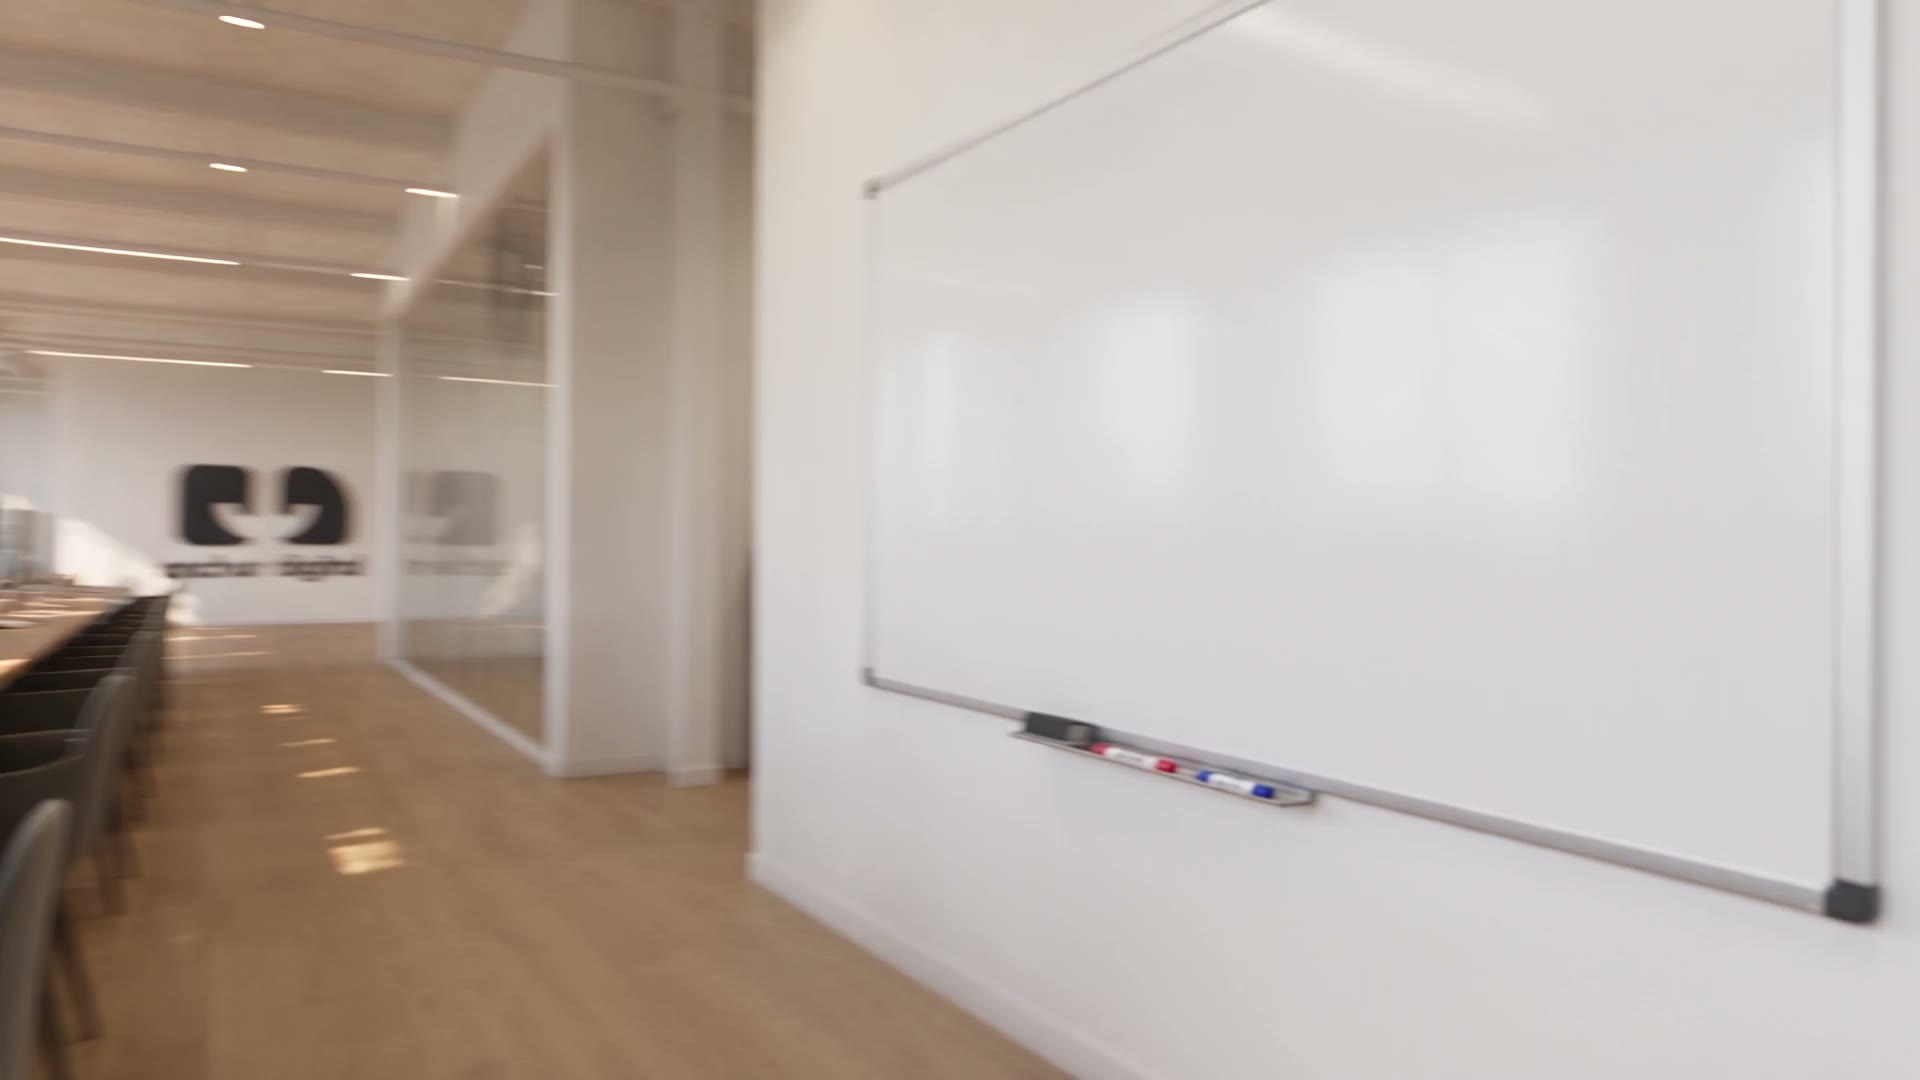
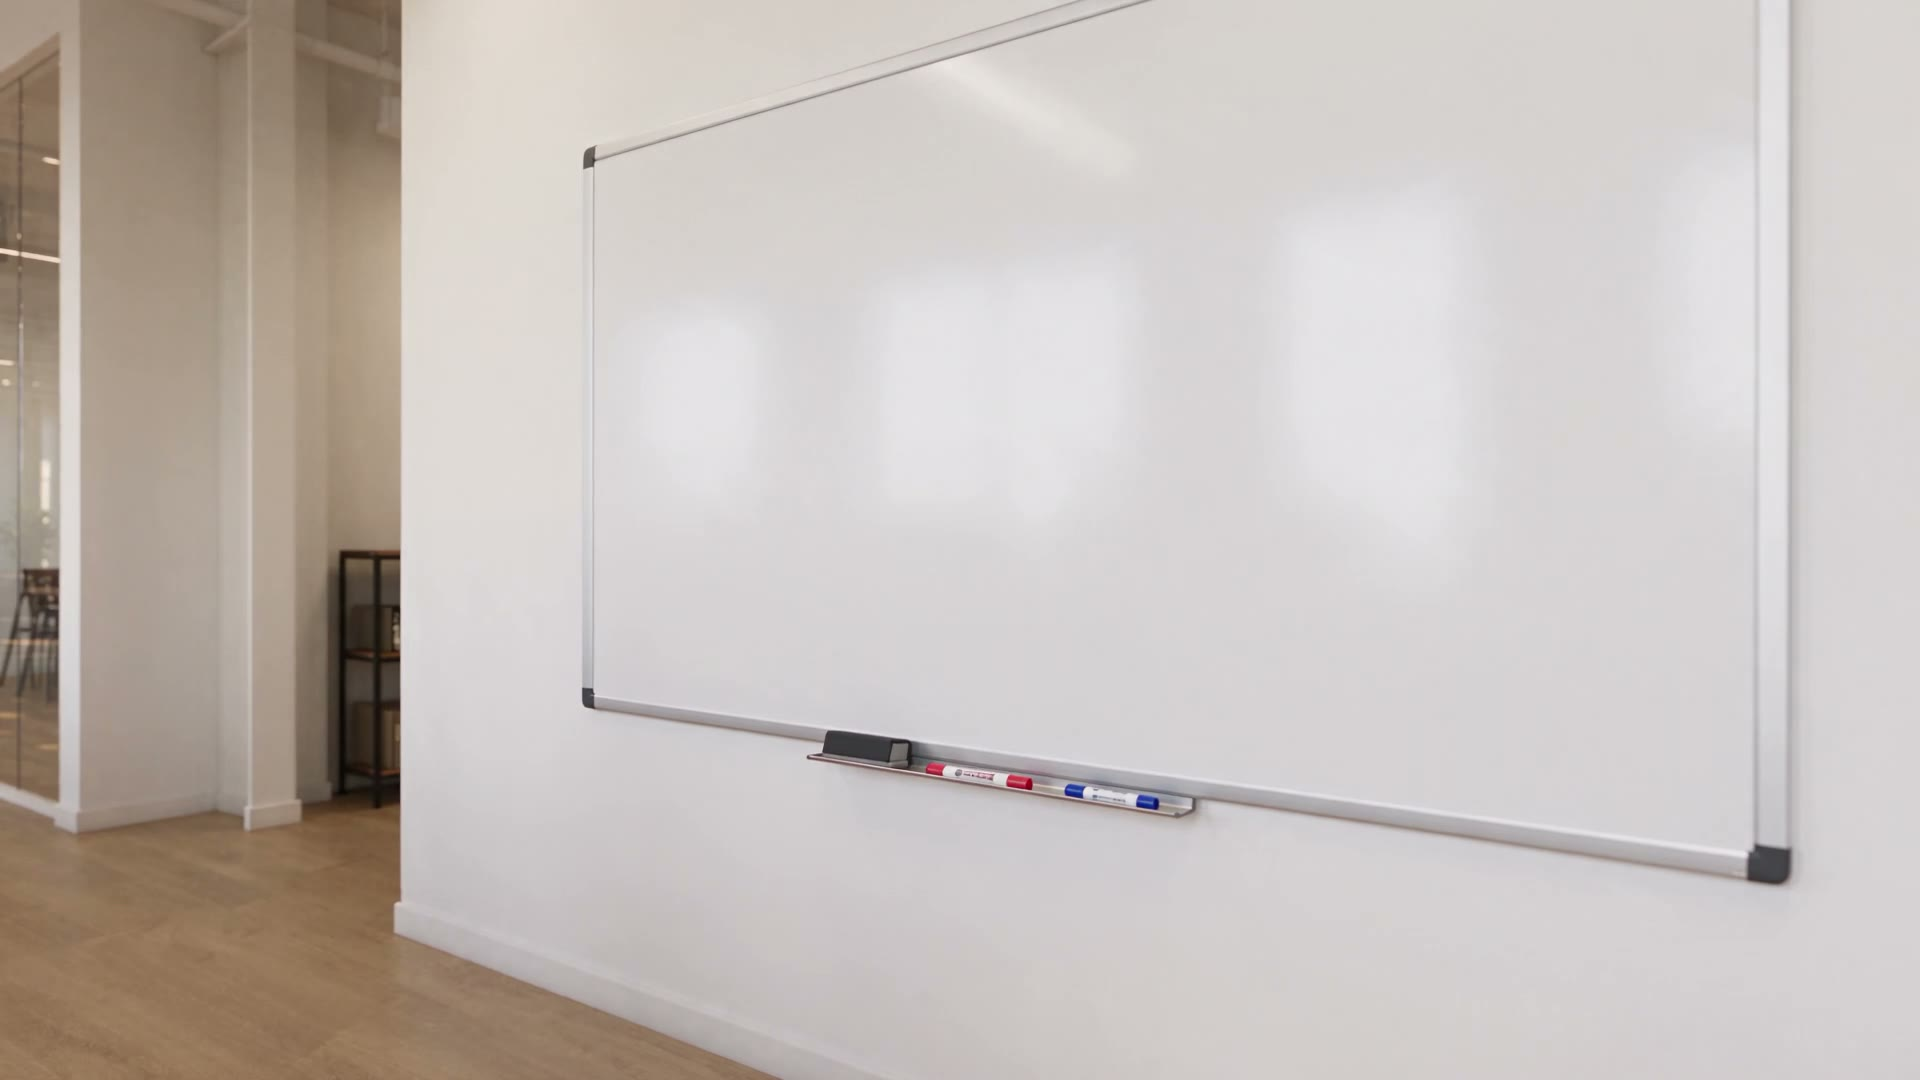
Fix the work waypoint's timestamp with real measurement, not eyeballing
Third report of this same "stops at the wrong time" complaint, so this
time verified it properly instead of guessing again: extracted a frame
every 0.1s from 14.5s to 19.5s and computed frame-to-frame pixel
difference across the whole window.

The data was unambiguous - t=16.5 (the previous pick) sits in the middle
of real camera motion (diff ~138,000), while the true settled whiteboard
hold is t=17.1-17.7 (diff drops to ~1,000-4,000, over 30x lower). The
earlier 3-frame visual check (16.2/16.5/16.8) that this timestamp was
based on just wasn't a wide or fine enough window to catch that the
camera was still panning through all three of those samples.

WAYPOINTS.work: 16.5 -> 17.4 (center of the real hold), and regenerated
frame-whiteboard.jpg from the corrected timestamp.

diff --git a/index.html b/index.html
@@ -1483,7 +1483,7 @@ body.video-failed .card{max-width:100%}
     {id:'start',        t:0},
     {id:'threshold',    t:8.0},
     {id:'services',     t:13.7},
-    {id:'work',         t:16.5},
+    {id:'work',         t:17.4},
     {id:'team',         t:21.7},
     {id:'testimonials', t:25.2},
     {id:'contact',      t:29.3}
